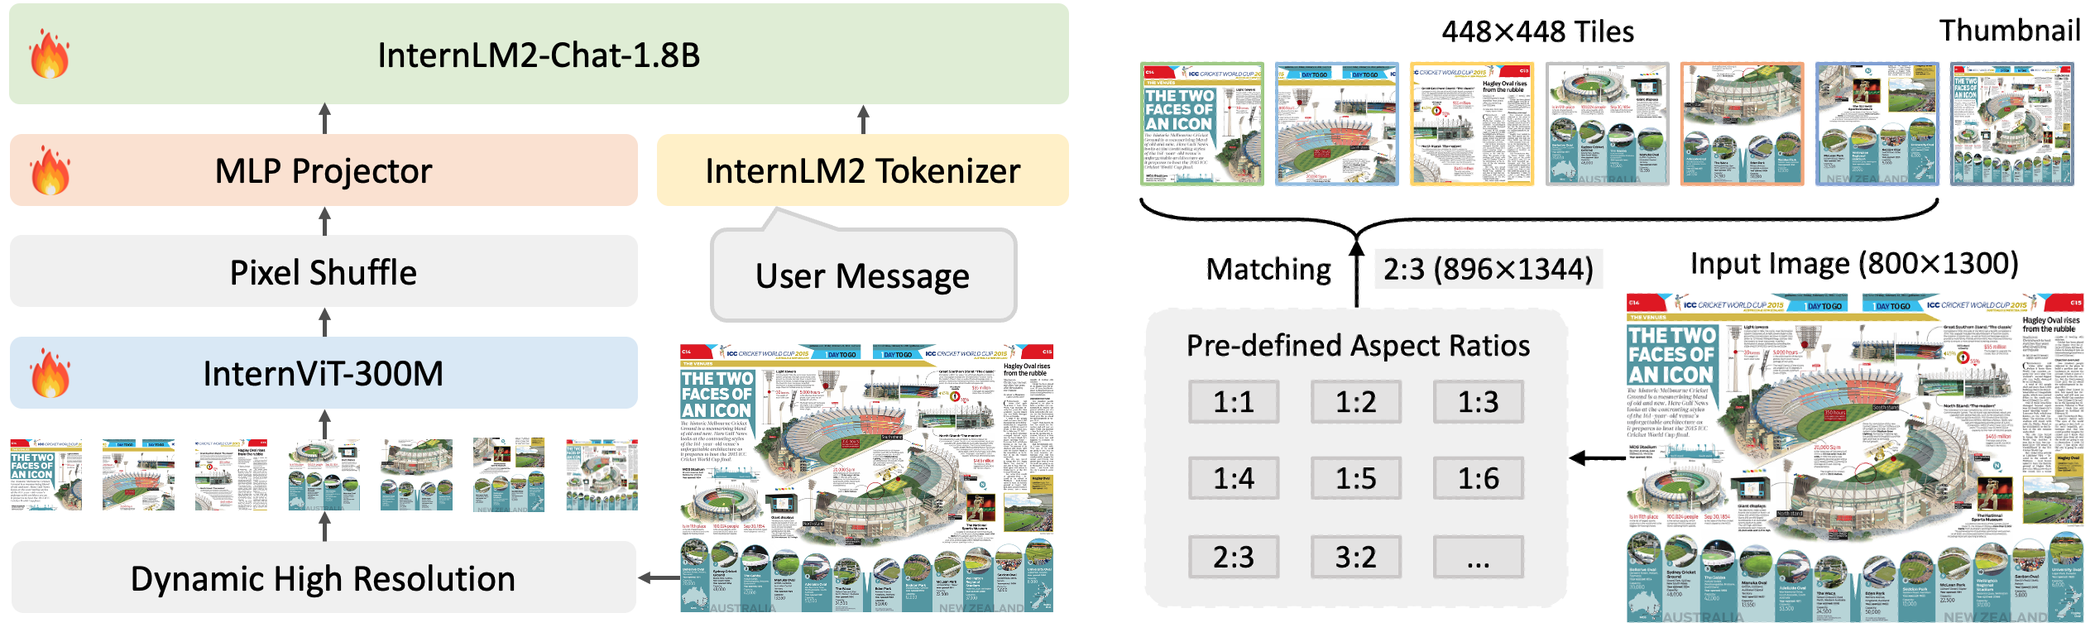
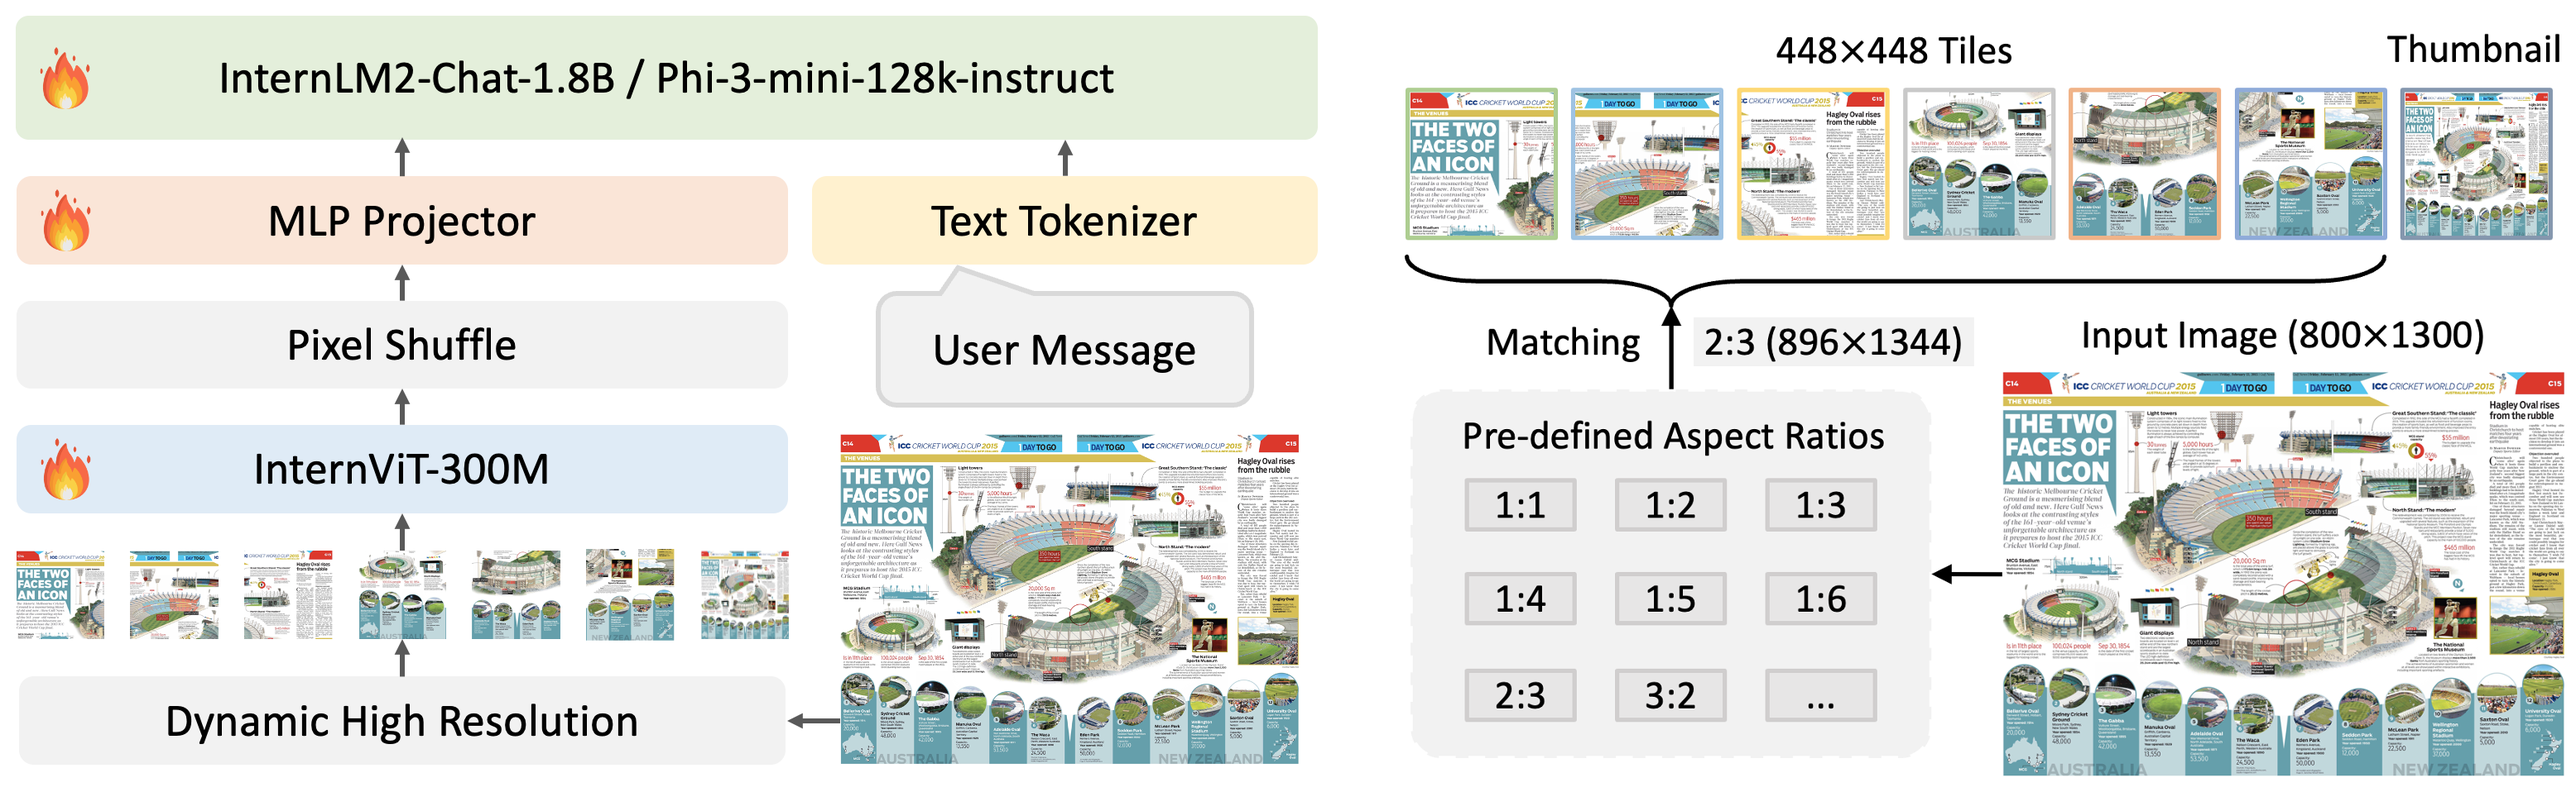
Update

diff --git a/blog/2024-05-25-Mini-InternVL-1.5/index.html b/blog/2024-05-25-Mini-InternVL-1.5/index.html
@@ -47,7 +47,8 @@
                             </span>
                         </p>
                     </header>
-                    <p><strong><span style="color: red;">8% of the model size, 80% of the performance</span></strong></p>
+                    <p><strong><span style="color: red;">8% of the model size, 80% of the performance; 16% of the model size, 90% of the performance.</span></strong></p>
+
                     <table>
                         <thead>
                         <tr>
@@ -61,11 +62,17 @@
                         <tbody>
 
                         <tr>
-                        <td rowspan="1">Vision Large Language Model</td>
+                        <td rowspan="2">Vision Large Language Model</td>
                         <td>Mini-InternVL-Chat-2B-V1-5</td>
                         <td>2024.05.19</td>
                         <td>🤗 <a href="https://huggingface.co/OpenGVLab/Mini-InternVL-Chat-2B-V1-5" rel="nofollow">HF link</a></td>
                         <td>🚀🚀 Only 2B parameters, anyone can deploy it locally.</td>
+                        </tr>
+                        <tr>
+                        <td>Mini-InternVL-Chat-4B-V1-5</td>
+                        <td>2024.05.28</td>
+                        <td>🤗 <a href="https://huggingface.co/OpenGVLab/Mini-InternVL-Chat-4B-V1-5" rel="nofollow">HF link</a></td>
+                        <td>🚀🚀 Only 4B parameters, anyone can deploy it locally.</td>
                         </tr>
                         <tr>
                          <td>Vision Foundation Model</td>
@@ -79,13 +86,13 @@
                     </table>
                     <div class="post-content e-content" itemprop="articleBody">
                         <p>You can run multimodal large models using a 1080Ti now.</p>
-                        <p>We are delighted to introduce <a href="https://huggingface.co/OpenGVLab/Mini-InternVL-Chat-2B-V1-5">Mini-InternVL-Chat-2B-V1-5</a>. In the era of large language models, many researchers have started to focus on smaller language models, such as Gemma-2B, Qwen-1.8B, and InternLM2-1.8B. Inspired by their efforts, we have distilled our vision foundation model <a href="https://huggingface.co/OpenGVLab/InternViT-6B-448px-V1-5">InternViT-6B-448px-V1-5</a> down to 300M and used <a href="https://huggingface.co/internlm/internlm2-chat-1_8b">InternLM2-Chat-1.8B</a> as our language model. This resulted in a small multimodal model with excellent performance.</p>
+                        <p>We are delighted to introduce Mini-InternVL-Chat series. In the era of large language models, many researchers have started to focus on smaller language models, such as Gemma-2B, Qwen-1.8B, and InternLM2-1.8B. Inspired by their efforts, we have distilled our vision foundation model <a href="https://huggingface.co/OpenGVLab/InternViT-6B-448px-V1-5">InternViT-6B-448px-V1-5</a> down to 300M and used <a href="https://huggingface.co/internlm/internlm2-chat-1_8b">InternLM2-Chat-1.8B</a> or <a href="https://huggingface.co/microsoft/Phi-3-mini-128k-instruct">Phi-3-mini-128k-instruct</a> as our language model. This resulted in a small multimodal model with excellent performance.</p>
 
-                        <p>As shown in the figure below, we adopted the same model architecture as InternVL 1.5. We simply replaced the original InternViT-6B with InternViT-300M and InternLM2-Chat-20B with InternLM2-Chat-1.8B. For training, we used the same data as InternVL 1.5 to train this smaller model. Additionally, due to the lower training costs of smaller models, <b>we used a context length of 8K during training.</b></p>
+                        <p>As shown in the figure below, we adopted the same model architecture as InternVL 1.5. We simply replaced the original InternViT-6B with InternViT-300M and InternLM2-Chat-20B with InternLM2-Chat-1.8B or Phi-3-mini-128k-instruct. For training, we used the same data as InternVL 1.5 to train this smaller model. Additionally, due to the lower training costs of smaller models, <b>we used a context length of 8K during training.</b></p>
                         <center>
                         <img width="80%" alt="image" src="images/mini_internvl_architecture.png"><br>
                         </center>
-                        <p>From the experimental results, we've observed that our distilled small vision model (InternViT-300M) is well-suited for a smaller language model (1.8B). This combination maximizes efficiency while maintaining impressive performance across various benchmarks, demonstrating the effectiveness of small models in handling complex tasks. Additionally, our small model significantly reduces memory requirements, making it more accessible and efficient for practical use.</p>
+                        <p>From the experimental results, we've observed that our distilled small vision model (InternViT-300M) is well-suited for a smaller language model (1.8B or 3.8B). This combination maximizes efficiency while maintaining impressive performance across various benchmarks, demonstrating the effectiveness of small models in handling complex tasks. Additionally, our small model significantly reduces memory requirements, making it more accessible and efficient for practical use.</p>
 
                         <h3>Performance</h3>
 
@@ -527,46 +534,107 @@
                                     <td>38.7</td>
                                 </tr>
 
-
+</tr>
+                                    <tr style="background-color: rgba(244,252,255, 1);">
+                                    <td>Phi-3-vision-128k-instruct</td>
+                                    <td>✓</td>
+                                    <td>4.2B</td>
+                                    <td>-</td>
+                                    <td>81.4</td>
+                                    <td>-</td>
+                                    <td>70.9</td>
+                                    <td>-</td>
+                                    <td>-</td>
+                                    <td>-</td>
+                                    <td>76.7</td>
+                                    <td>40.4</td>
+                                    <td>- / -</td>
+                                    <td>-</td>
+                                    <td>-</td>
+                                    <td>-</td>
+                                    <td>-</td>
+                                    <td>44.5</td>
+                                </tr>
 
                                 <tr style="background-color: rgb(255,248,227);">
-                                    <td>Mini−InternVL&nbsp;1.5</td>
+                                    <td>Mini−InternVL-2B-1.5</td>
                                     <td>✓</td>
                                     <td>2.2B</td>
-                                    <td>82.6</td>
+                                    <td>85.0</td>
                                     <td>74.8</td>
-                                    <td>56.0</td>
+                                    <td>55.4</td>
                                     <td>70.5</td>
                                     <td>654</td>
-                                    <td>1899.8</td>
+                                    <td>1901.5</td>
                                     <td>57.9</td>
                                     <td>69.8</td>
                                     <td>34.6</td>
                                     <td>70.9 / 66.2</td>
                                     <td>63.5</td>
-                                    <td>39.6</td>
+                                    <td>39.3</td>
                                     <td>69.8</td>
                                     <td>37.5</td>
                                     <td>41.1</td>
                                 </tr>
                                 <tr style="background-color: rgb(255,255,255);">
-                                    <td colspan="2"><b>Percent of InternVL 1.5</b></td>
+                                    <td colspan="2"><b>Percent of InternVL-1.5</b></td>
                                     <td><b>8.6%</b></td>
-                                    <td><b>90.9%</b></td>
+                                    <td><b>93.5%</b></td>
                                     <td><b>89.3%</b></td>
-                                    <td><b>77.2%</b></td>
+                                    <td><b>76.4%</b></td>
                                     <td><b>87.5%</b></td>
                                     <td><b>90.3%</b></td>
-                                    <td><b>86.8%</b></td>
+                                    <td><b>86.9%</b></td>
                                     <td><b>87.7%</b></td>
                                     <td><b>86.5%</b></td>
                                     <td><b>76.5%</b></td>
                                     <td><b>83.5%</b></td>
                                     <td><b>91.0%</b></td>
-                                    <td><b>63.1%</b></td>
+                                    <td><b>62.6%</b></td>
                                     <td><b>91.8%</b></td>
                                     <td><b>76.1%</b></td>
                                     <td><b>76.8%</b></td>
+                                </tr>
+
+
+                                <tr style="background-color: rgb(255,248,227);">
+                                    <td>Mini−InternVL-4B-1.5</td>
+                                    <td>✓</td>
+                                    <td>4.2B</td>
+                                    <td>87.7</td>
+                                    <td>81.0</td>
+                                    <td>64.6</td>
+                                    <td>72.5</td>
+                                    <td>638</td>
+                                    <td>2053.6</td>
+                                    <td>60.1</td>
+                                    <td>76.9</td>
+                                    <td>43.3</td>
+                                    <td>76.2 / 70.3</td>
+                                    <td>58.8</td>
+                                    <td>46.7</td>
+                                    <td>72.5</td>
+                                    <td>42.8</td>
+                                    <td>53.7</td>
+                                </tr>
+                                <tr style="background-color: rgb(255,255,255);">
+                                    <td colspan="2"><b>Percent of InternVL-1.5</b></td>
+                                    <td><b>16.5%</b></td>
+                                    <td><b>96.5%</b></td>
+                                    <td><b>96.7%</b></td>
+                                    <td><b>89.1%</b></td>
+                                    <td><b>90.0%</b></td>
+                                    <td><b>88.1%</b></td>
+                                    <td><b>93.9%</b></td>
+                                    <td><b>91.1%</b></td>
+                                    <td><b>95.3%</b></td>
+                                    <td><b>95.8%</b></td>
+                                    <td><b>89.2%</b></td>
+                                    <td><b>84.2%</b></td>
+                                    <td><b>74.4%</b></td>
+                                    <td><b>95.4%</b></td>
+                                    <td><b>86.8%</b></td>
+                                    <td><b>100.0%</b></td>
                                 </tr>
                             </tbody>
                         </table>
@@ -587,15 +655,15 @@
                         <h3 id="model-card">Model Card</h3>
 
                         <table  style="text-align: center;">
-                          <tr><th colspan="2">Name</th><th>Mini-InternVL-Chat-2B-V1-5</th></tr>
-                          <tr><th rowspan="4">Model Size</th><td>Total</td><td><b>2.21B</b></td></tr>
-                          <tr><td>ViT</td><td>304.01M</td></tr>
-                          <tr><td>MLP</td><td>12.60M</td></tr>
-                          <tr><td>LLM</td><td>1.89B</td></tr>
-                          <tr><th colspan="1">Resolution</th><td colspan="2" >dynamic resolution, max to 12 tiles of 448 × 448 in training, max to 40 tiles in testing (4K resolution).</td></tr>
-                            <tr><th rowspan="2">Stage-1</th><th>Training Data</th><td colspan="1"  style="text-align: left;">The pre-training dataset utilized in our InternVL 1.5 encompasses a diverse range of publicly accessible sources. These datasets span multiple tasks, including captioning, which predominantly uses datasets such as Laion-EN, Laion-ZH, COYO, and GRIT, constituting 53.9% of the total data. Detection and grounding tasks utilize datasets like Objects365, GRIT, and All-Seeing, making up 5.2%. For OCR tasks, we utilized large-scale datasets such as Wukong-OCR, LaionCOCO-OCR, and Common Crawl PDFs, which constitute 32.0% of our data. These datasets were constructed using PaddleOCR to perform OCR on Chinese images from Wukong and on English images from LaionCOCO. Smaller OCR datasets include MMC-Inst, LSVT, ST-VQA, RCTW-17, ArT, and others, accounting for 8.9% of the data, which focus on more specific or constrained OCR challenges.</td></tr>
-                          <tr><th>Trainable Module</th><td colspan="1">ViT + MLP</td></tr>
-                          <tr><th rowspan="2">Stage-2</th><th>Training Data</th><td colspan="1">5M high-quality bilingual data. Please see the technical report of InternVL 1.5 for more details.</td></tr>
+                          <tr><th colspan="2">Name</th><th>Mini-InternVL-Chat-2B-V1-5</th><th>Mini-InternVL-Chat-4B-V1-5</th></tr>
+                          <tr><th rowspan="4">Model Size</th><td>Total</td><td><b>2.21B</b></td><td><b>4.15B</b></td></tr>
+                          <tr><td>ViT</td><td>304.01M</td><td>304.01M</td></tr>
+                          <tr><td>MLP</td><td>12.60M</td><td>22.03M</td></tr>
+                          <tr><td>LLM</td><td>1.89B</td><td>3.82B</td></tr>
+                          <tr><th colspan="2">Resolution</th><td colspan="2" >dynamic resolution, max to 12 tiles of 448 × 448 in training, max to 40 tiles in testing (4K resolution).</td></tr>
+                            <tr><th rowspan="2">Stage-1</th><th>Training Data</th><td colspan="2"  style="text-align: left;">The pre-training dataset utilized in our InternVL 1.5 encompasses a diverse range of publicly accessible sources. These datasets span multiple tasks, including captioning, which predominantly uses datasets such as Laion-EN, Laion-ZH, COYO, and GRIT, constituting 53.9% of the total data. Detection and grounding tasks utilize datasets like Objects365, GRIT, and All-Seeing, making up 5.2%. For OCR tasks, we utilized large-scale datasets such as Wukong-OCR, LaionCOCO-OCR, and Common Crawl PDFs, which constitute 32.0% of our data. These datasets were constructed using PaddleOCR to perform OCR on Chinese images from Wukong and on English images from LaionCOCO. Smaller OCR datasets include MMC-Inst, LSVT, ST-VQA, RCTW-17, ArT, and others, accounting for 8.9% of the data, which focus on more specific or constrained OCR challenges.</td></tr>
+                          <tr><th>Trainable Module</th><td colspan="1">ViT + MLP</td><td colspan="1">MLP</td></tr>
+                          <tr><th rowspan="2">Stage-2</th><th>Training Data</th><td colspan="2">5M high-quality bilingual data. Please see the technical report of InternVL 1.5 for more details.</td></tr>
                           <tr><th>Trainable Module</th><td colspan="2">ViT + MLP + LLM</td></tr>
                         </table>
 
@@ -604,6 +672,7 @@
                         <table>
                             <thead>
                                 <tr>
+                                    <th>Model Size</th>
                                     <th>Stage</th>
                                     <th>Trainable Module</th>
                                     <th>#Samples</th>
@@ -616,6 +685,7 @@
                             </thead>
                             <tbody>
                                 <tr>
+                                    <td rowspan="2">2B</td>
                                     <td>Pre-train</td>
                                     <td>ViT + MLP</td>
                                     <td>~200M</td>
@@ -634,6 +704,27 @@
                                     <td>1</td>
                                     <td>8192</td>
                                     <td>0.01</td>
+                                </tr>
+                            <tr>
+                                    <td rowspan="2">4B</td>
+                                    <td>Pre-train</td>
+                                    <td>MLP</td>
+                                    <td>~24M</td>
+                                    <td>2048</td>
+                                    <td>2e-4</td>
+                                    <td>1</td>
+                                    <td>4096</td>
+                                    <td>0.05</td>
+                                </tr>
+                                <tr>
+                                    <td>Fine-tune</td>
+                                    <td>ViT + MLP + LLM (full model)</td>
+                                    <td>~5M</td>
+                                    <td>1024</td>
+                                    <td>4e-5</td>
+                                    <td>1</td>
+                                    <td>8192</td>
+                                    <td>0.05</td>
                                 </tr>
                             </tbody>
                         </table>
